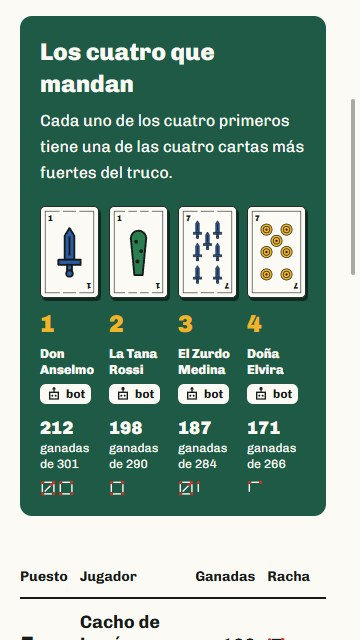
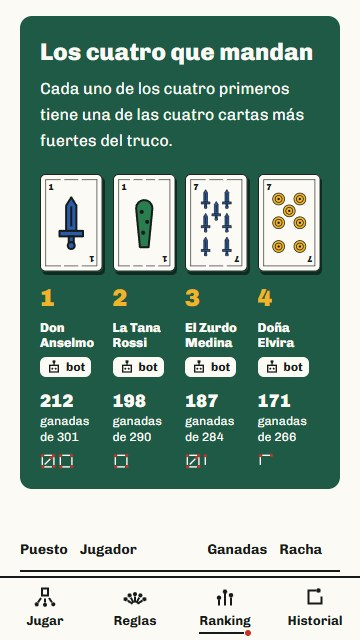
M11: decisiones de la barra de abajo y capturas del celular con la barra

diff --git a/docs/decisiones.md b/docs/decisiones.md
@@ -312,14 +312,15 @@ El reglamento no decía qué pasa en estos casos y el motor necesitaba una respu
 ### La portada entra en la primera pantalla
 
 - **Problema:** en el celular la mano de cartas y el canto quedaban abajo de todo el texto: al abrir el sitio se veían un título y dos botones, y lo propio del sitio recién aparecía deslizando.
-- **Se eligió:** en el celular la mano va entre el título y el botón, más chica y sin los dorsos del rival. A 360 por 640 entran el título, las cartas, "Jugar contra el bot" y las dos salidas. El escritorio no cambió.
+- **Se eligió:** en el celular la mano va entre el título y el botón, sin los dorsos del rival. La primera pantalla mide justo lo que queda entre el encabezado y la barra de abajo: el título arriba, las cartas al centro y "Jugar contra el bot" apoyado sobre la barra. El escritorio no cambió.
 - **Cómo:** el bloque de texto se desarma en el celular (`display: contents`) y cada pieza toma su orden. No hay dos copias de la mano.
+- **Se mide contra el alto de la ventana:** un celular con las barras del navegador a la vista deja unos 550 px de alto, y uno grande pasa de 800. El título, el ancho de las cartas y el canto salen de una cuenta sobre ese alto (`.portada-inicio` en `app.css`), así el botón no queda tapado en la pantalla baja ni flotando en la alta. Si la pantalla es muy baja, la frase de abajo del título le deja su lugar a las cartas. Probado a 360 por 520, 360 por 640, 390 por 760 y 412 por 860.
 - **"Invitar a alguien" mentía:** era un segundo botón del mismo formulario y entraba a la mesa contra el bot. Ahora es un link a `/modos`, donde se elige el rival. Hay un test que cuenta un solo botón que entra a la mesa.
 
 ### Nada acompaña el scroll
 
 - **Problema:** en el ranking, "Tu puesto" iba pegado al borde de abajo y tapaba la tabla mientras se recorría.
-- **Se eligió (decidido por Román):** queda quieto al final de la tabla, en el celular y en el escritorio. Un test revisa que ninguna página de lectura tenga algo pegado o fijo.
+- **Se eligió (decidido por Román):** queda quieto al final de la tabla, en el celular y en el escritorio. Un test revisa que ninguna página de lectura tenga algo pegado o fijo. La única excepción es la barra de abajo del celular, que también decidió él.
 
 ### Las listas, compactas
 
@@ -327,4 +328,13 @@ El reglamento no decía qué pasa en estos casos y el motor necesitaba una respu
 - **Historial:** en el celular cada partida son dos renglones (resultado y "Ver de nuevo"; contra quién y cuándo). El tanteo en fósforos repetía el resultado y entra recién desde el ancho de tablet.
 - **Repetición:** los tres controles van en un renglón, de igual ancho, para que no salten cuando el del medio cambia de texto.
 - **Tabla del envido:** tenía un ancho mínimo y en el celular obligaba a deslizar de costado para ver cuánto vale cada canto. Ahora entra: el canto largo baja de renglón.
-- **El menú de arriba** pasa a ser el desplegable hasta 1024 px: a 768 los links no entraban y "Cómo se juega" se partía en tres renglones.
+
+### El menú del celular es una barra abajo
+
+- **Problema:** el menú era un botón arriba a la derecha que desplegaba la lista. Costaba un toque más para moverse, quedaba lejos del pulgar y no mostraba dónde estabas hasta abrirlo. Además, a 768 px el menú de escritorio no entraba y "Cómo se juega" se partía en tres renglones.
+- **Se eligió (decidido por Román):** una barra fija abajo con cuatro lugares (Jugar, Reglas, Ranking e Historial), cada uno con su ícono propio. El lugar actual lleva el fósforo que subraya, igual que el menú de escritorio. Va hasta 1024 px; desde ahí manda el menú de arriba.
+- **La cuenta queda arriba,** junto al modo de día y de noche, donde estaba el botón "Menú": con cinco lugares a 360 px un apodo largo no entraba.
+- **Dónde no aparece:** en la mesa (ocupa toda la pantalla y no hace scroll) y en ingreso y registro, donde se escribe.
+- **Lo que se sacó:** el botón de tres fósforos, el panel desplegable y sus estilos. En la portada del celular también salieron los dos links debajo del botón, porque repetían "Jugar" y "Reglas" de la barra.
+- **La barra quedaba corta en el celular:** en el reparto de la portada las cartas llegan volando desde la derecha, y eso ensanchaba la página (472 px en una pantalla de 390). El celular achicaba todo para mostrarla entera y la barra, que mide el ancho real de la pantalla, no llegaba al borde. Ahora el contenido recorta lo que se sale por los costados (`overflow-x: clip` en `main`).
+- **Un detalle de las ventanas angostas de escritorio:** ahí la barra de scroll de la página ocupa lugar y bajaba hasta el fondo, cortándole el borde derecho a la barra. Ahora el último tramo del carril del scroll toma el alto y el color de la barra, así que el scroll termina donde ella empieza. En los celulares el scroll va encima de la página y no hacía falta. En Firefox de escritorio ese ajuste no existe y el corte se sigue viendo.
